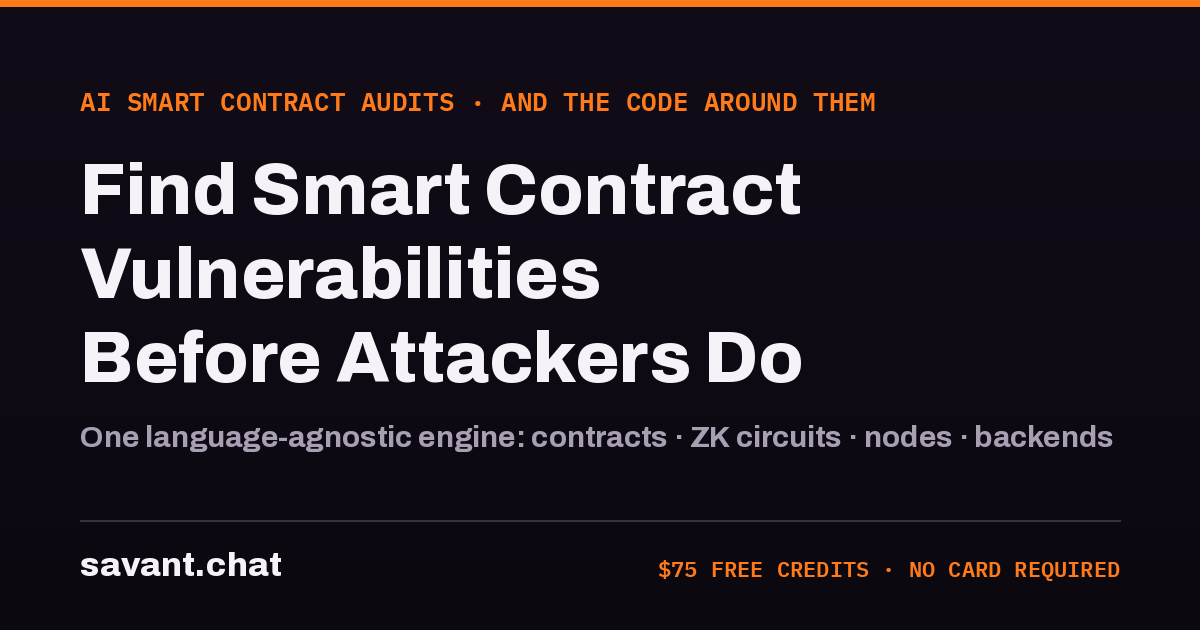
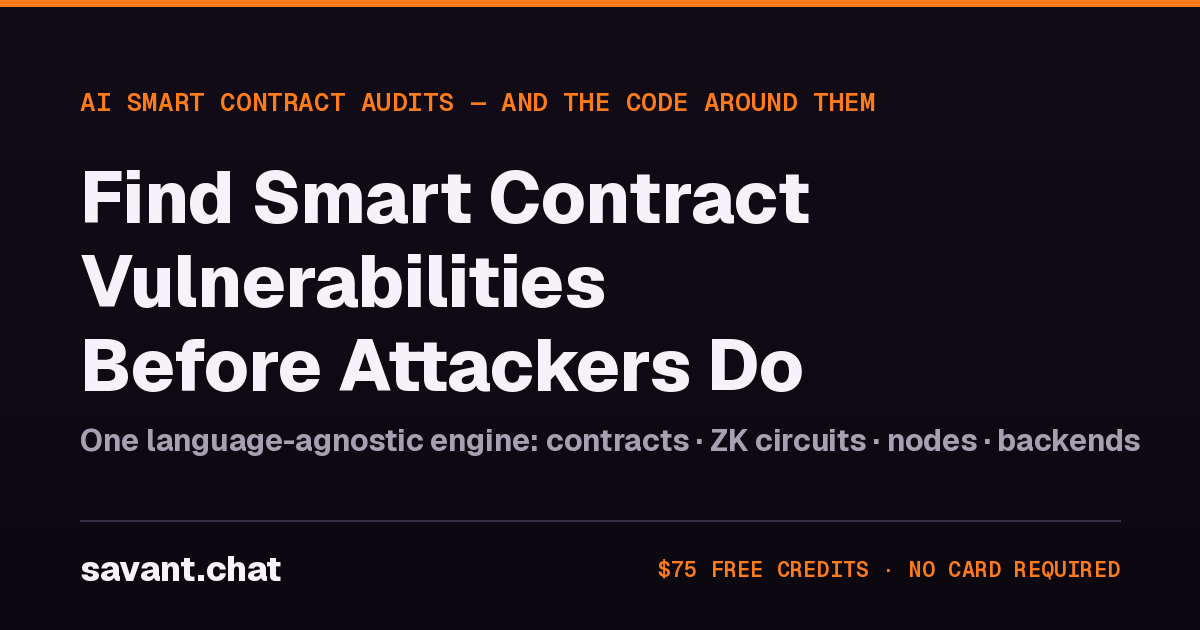
Integrate rebase onto remote: pathname:// links, Geist, docs stays enabled
- Adopt remote's pathname:///dashboard/login + target=_self app links
  everywhere (drops the absolute-URL approach; exact route survives
  trailingSlash rewriting and skips the SPA router)
- Update tests: signup URL expectations, Geist/Geist Mono fonts,
  docs plugin enabled (remote had docs: false from before the Docs
  section was requested)
- Regenerate og social card with Geist to match the new design system

diff --git a/tests/unit/site-config.test.ts b/tests/unit/site-config.test.ts
@@ -43,10 +43,10 @@ describe('Docusaurus theme config', () => {
     expect(config.url).toBe('https://savant.chat');
   });
 
-  it('uses the dashboard login signup URL', () => {
-    // Absolute URL: keeps the exact dashboard route out of the static site's
-    // trailing-slash rewriting (the dashboard app serves /dashboard/login).
-    expect(signupUrl).toBe('https://savant.chat/dashboard/login');
+  it('uses the dashboard login signup URL via pathname://', () => {
+    // pathname:// keeps the app route out of the Docusaurus SPA router and
+    // out of trailing-slash rewriting (the app serves /dashboard/login).
+    expect(signupUrl).toBe('pathname:///dashboard/login');
   });
 
   it('allows the temporary dashboard route to remain unresolved until the app exists', () => {
@@ -76,7 +76,7 @@ describe('Docusaurus theme config', () => {
     ).toBe(true);
   });
 
-  it('loads Archivo and IBM Plex Mono from Google Fonts css2', () => {
+  it('loads Geist and Geist Mono from Google Fonts css2', () => {
     expect(
       getHeadTags().some(tag => {
         const href = tag.attributes?.href ?? '';
@@ -85,8 +85,8 @@ describe('Docusaurus theme config', () => {
           tag.tagName === 'link' &&
           tag.attributes?.rel === 'stylesheet' &&
           href.includes('fonts.googleapis.com/css2') &&
-          href.includes('Archivo') &&
-          href.includes('IBM+Plex+Mono')
+          href.includes('Geist') &&
+          href.includes('Geist+Mono')
         );
       }),
     ).toBe(true);

diff --git a/tests/unit/pricing-faq-cta.test.tsx b/tests/unit/pricing-faq-cta.test.tsx
@@ -1,7 +1,8 @@
 import {render, screen, within} from '@testing-library/react';
 import Home from '../../src/pages';
 
-const signupUrl = 'https://savant.chat/dashboard/login';
+// The Link mock strips the pathname:// prefix, mirroring Docusaurus.
+const signupHref = '/dashboard/login';
 
 describe('pricing, FAQ, and final CTA sections', () => {
   beforeEach(() => {
@@ -45,7 +46,7 @@ describe('pricing, FAQ, and final CTA sections', () => {
       .find(item => item.textContent?.includes('Advanced'));
 
     expect(within(advanced as HTMLElement).getByRole('link', {name: /start free/i}))
-      .toHaveAttribute('href', signupUrl);
+      .toHaveAttribute('href', signupHref);
   });
 
   it('renders the account tier note', () => {
@@ -117,7 +118,7 @@ describe('pricing, FAQ, and final CTA sections', () => {
       within(screen.getByTestId('final-cta')).getByRole('link', {
         name: 'Start your first audit',
       }),
-    ).toHaveAttribute('href', signupUrl);
+    ).toHaveAttribute('href', signupHref);
   });
 
   it('orders testimonials before pricing before FAQ before final CTA', () => {

diff --git a/src/pages/index.tsx b/src/pages/index.tsx
@@ -107,7 +107,7 @@ function HomepageHero({signupUrl}: {signupUrl: string}) {
           <div className={styles.ctas} data-testid="hero-ctas">
             <Link
               className={`button button--primary ${styles.primaryCta}`}
-              to={signupUrl}>
+              to={signupUrl} target="_self">
               Start free — $75 in credits
             </Link>
             <Link
@@ -132,7 +132,7 @@ export default function Home(): ReactNode {
 
   const {siteConfig} = useDocusaurusContext();
   const {customFields} = siteConfig as SiteConfigWithSignup;
-  const signupUrl = customFields?.signupUrl ?? 'https://savant.chat/dashboard/login';
+  const signupUrl = customFields?.signupUrl ?? 'pathname:///dashboard/login';
 
   const homeTitle = 'Savant Chat — AI Smart Contract Auditor';
 

diff --git a/tests/unit/blog-config.test.ts b/tests/unit/blog-config.test.ts
@@ -18,8 +18,9 @@ describe('blog math configuration', () => {
     expect(hasDependency(name)).toBe(true);
   });
 
-  it('disables the docs plugin (landing + blog only)', () => {
-    expect(configSource).toMatch(/docs:\s*false/);
+  it('enables the docs plugin with the sidebar config', () => {
+    expect(configSource).toMatch(/docs:\s*\{/);
+    expect(configSource).toMatch(/sidebarPath:\s*'\.\/sidebars\.ts'/);
   });
 
   it('imports remark-math and rehype-katex for the blog', () => {

diff --git a/tests/unit/homepage.test.tsx b/tests/unit/homepage.test.tsx
@@ -43,7 +43,7 @@ describe('homepage hero', () => {
     const ctas = within(screen.getByTestId('hero-ctas'));
 
     expect(ctas.getByRole('link', {name: 'Start free — $75 in credits'}))
-      .toHaveAttribute('href', 'https://savant.chat/dashboard/login');
+      .toHaveAttribute('href', '/dashboard/login');
     expect(ctas.getByRole('link', {name: 'See pricing'})).toHaveAttribute('href', '/#pricing');
   });
 

diff --git a/src/pages/pricing.tsx b/src/pages/pricing.tsx
@@ -67,7 +67,7 @@ const pricingStructuredData = {
 export default function PricingPage(): ReactNode {
   const {siteConfig} = useDocusaurusContext();
   const {customFields} = siteConfig as SiteConfigWithSignup;
-  const signupUrl = customFields?.signupUrl ?? 'https://savant.chat/dashboard/login';
+  const signupUrl = customFields?.signupUrl ?? 'pathname:///dashboard/login';
 
   return (
     <Layout

diff --git a/tests/mocks/docusaurus-context.ts b/tests/mocks/docusaurus-context.ts
@@ -4,7 +4,7 @@ export default function useDocusaurusContext() {
       title: 'Savant Chat — AI Smart Contract Auditor',
       tagline: 'Find Smart Contract Vulnerabilities Before Attackers Do',
       customFields: {
-        signupUrl: 'https://savant.chat/dashboard/login',
+        signupUrl: 'pathname:///dashboard/login',
       },
     },
   };
